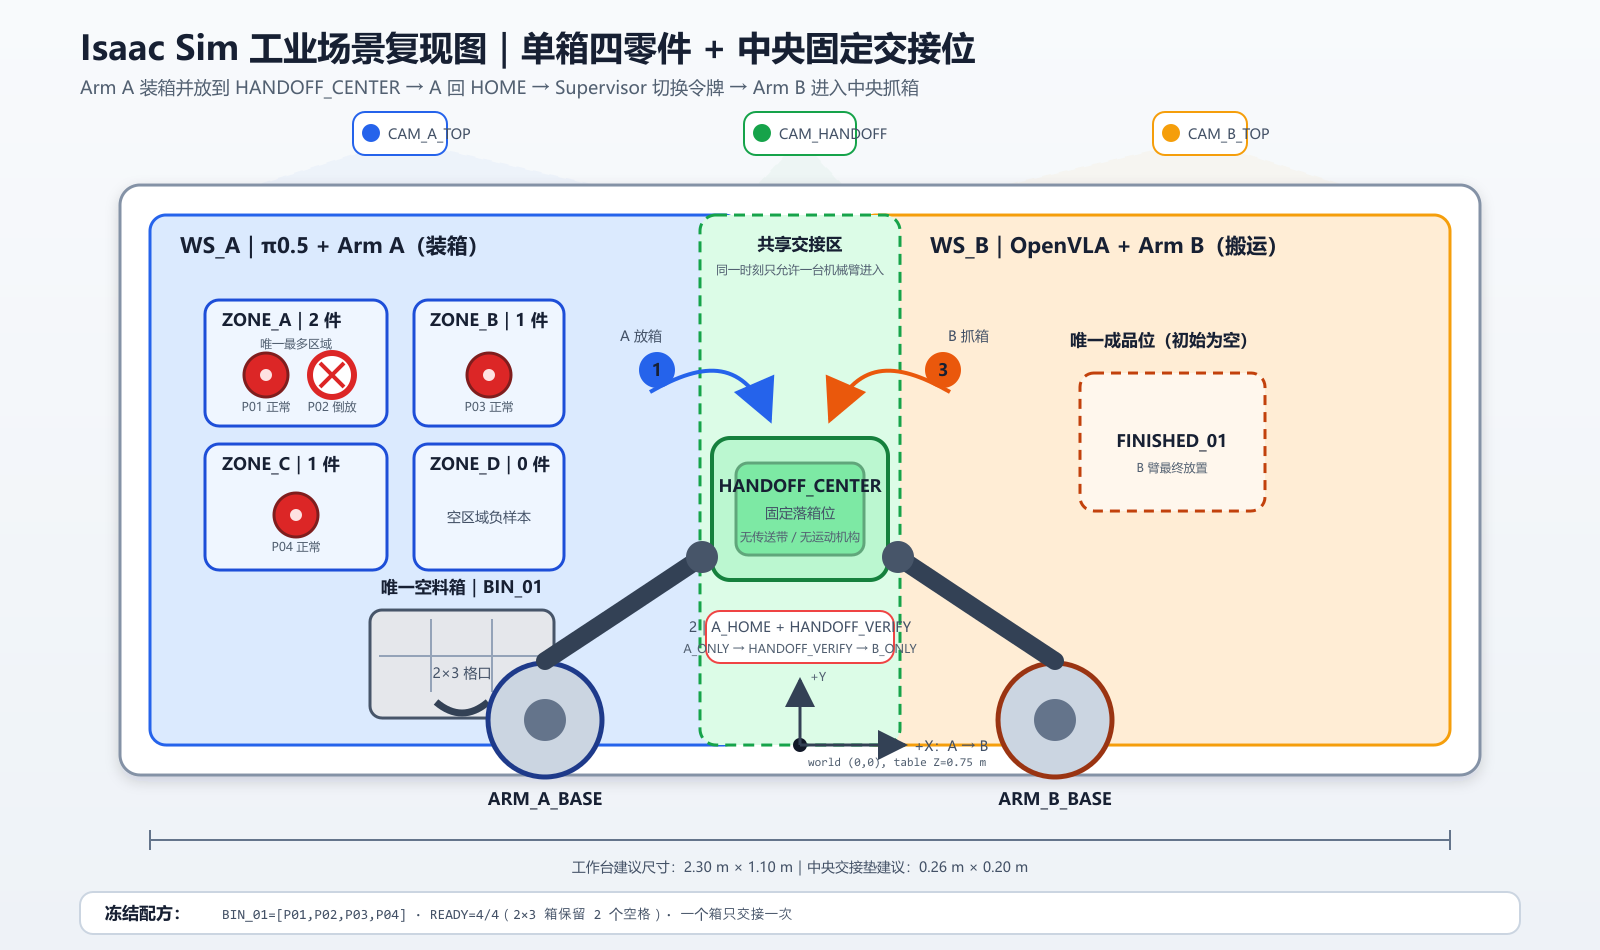
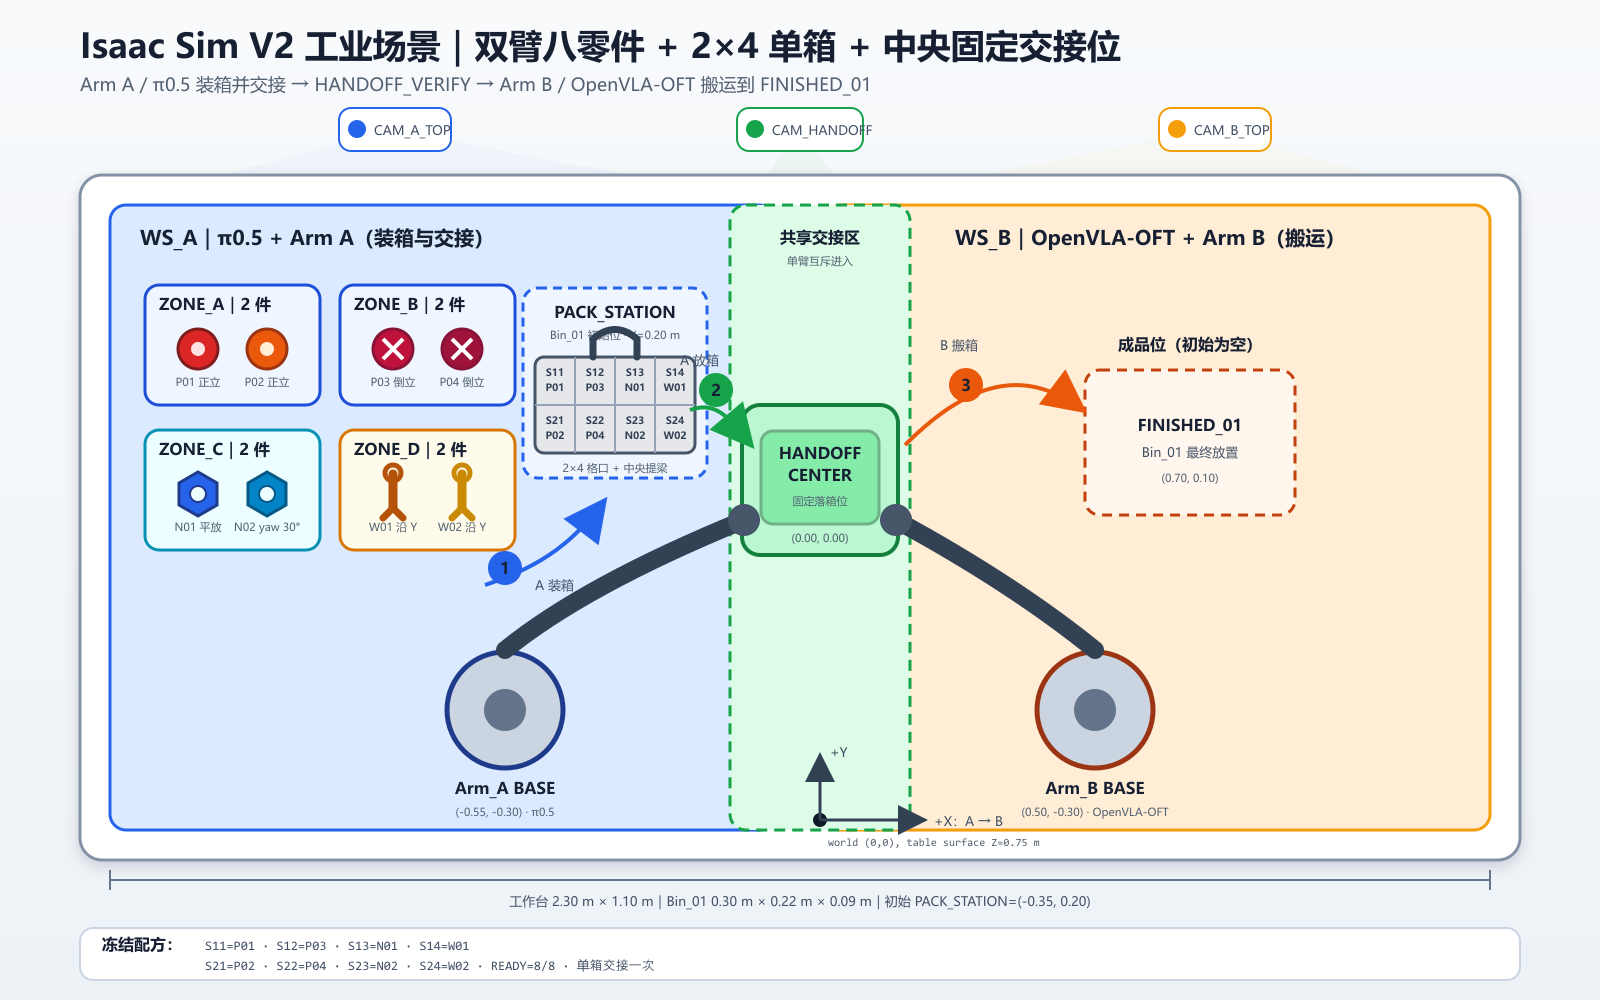
docs(v2): update scene layout to eight-part bin

Changed region(s): [[0.0312, 0.0305, 0.9375, 1.0]]

diff --git a/tests/test_document_contracts.py b/tests/test_document_contracts.py
@@ -120,6 +120,31 @@ class DocumentationContractTests(unittest.TestCase):
             HANDOFF_READY_EVENT_TYPE,
         )
 
+    def test_v2_layout_asset_matches_the_scene_truth_source(self) -> None:
+        scene = json.loads(
+            (ROOT / "simulation" / "configs" / "single_bin_scene_v2.json").read_text(
+                encoding="utf-8"
+            )
+        )
+        layout = (
+            ROOT
+            / "docs"
+            / "architecture"
+            / "assets"
+            / "isaac-sim-single-bin-static-handoff-layout-v2.svg"
+        ).read_text(encoding="utf-8")
+
+        self.assertIn("双臂八零件", layout)
+        self.assertIn("2×4", layout)
+        self.assertIn("READY=8/8", layout)
+        self.assertNotIn("单箱四零件", layout)
+        self.assertNotIn("2×3", layout)
+        self.assertNotIn("READY=4/4", layout)
+        for slot in scene["bin"]["slots"]:
+            self.assertIn(f'{slot["id"]}={slot["part_id"]}', layout)
+        for camera in scene["cameras"]:
+            self.assertIn(camera["id"], layout)
+
 
 if __name__ == "__main__":
     unittest.main()
